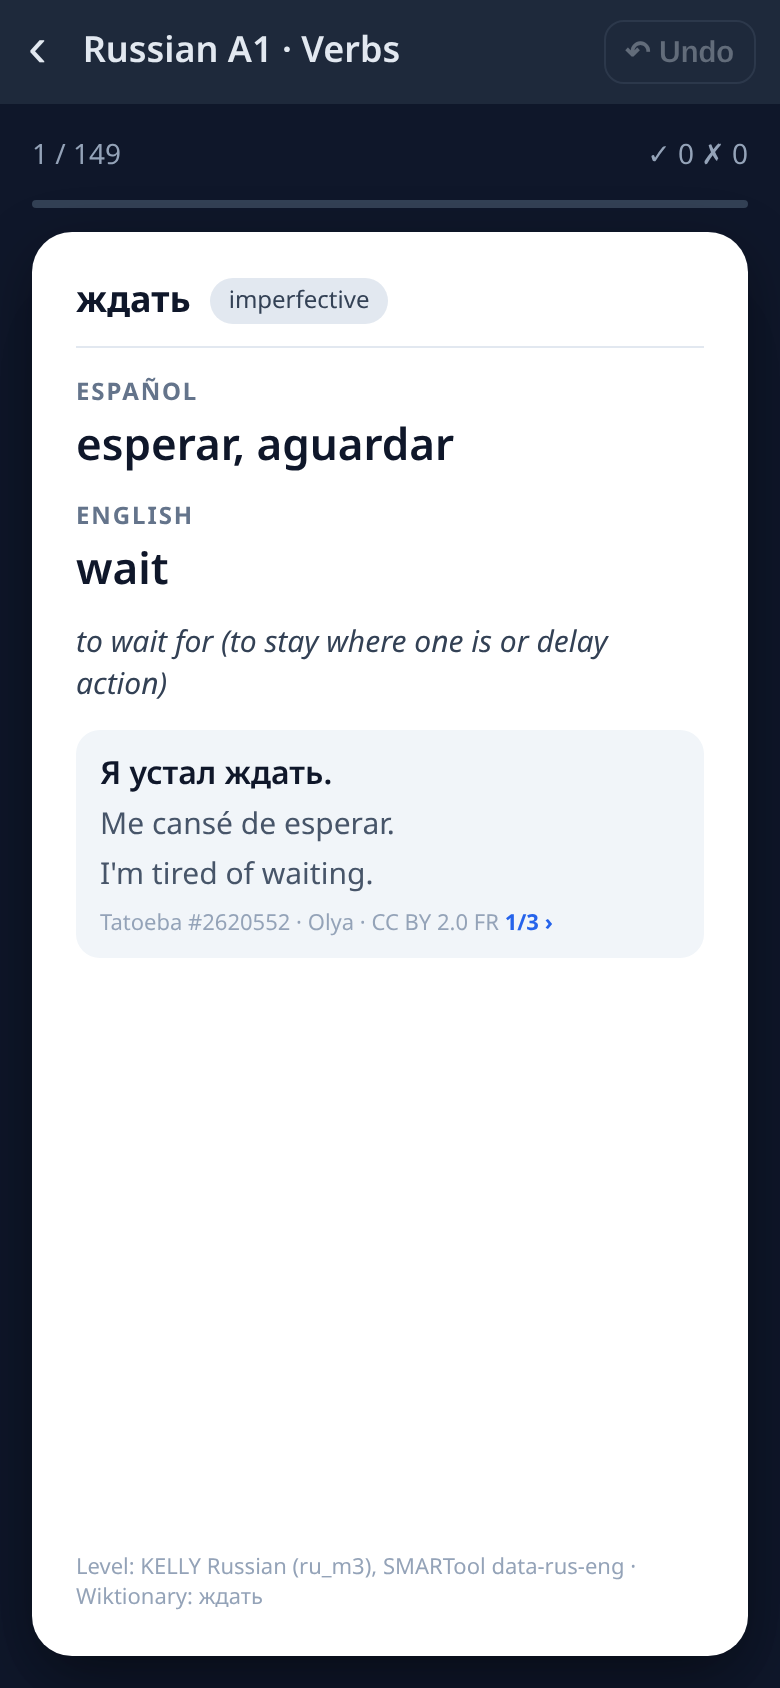
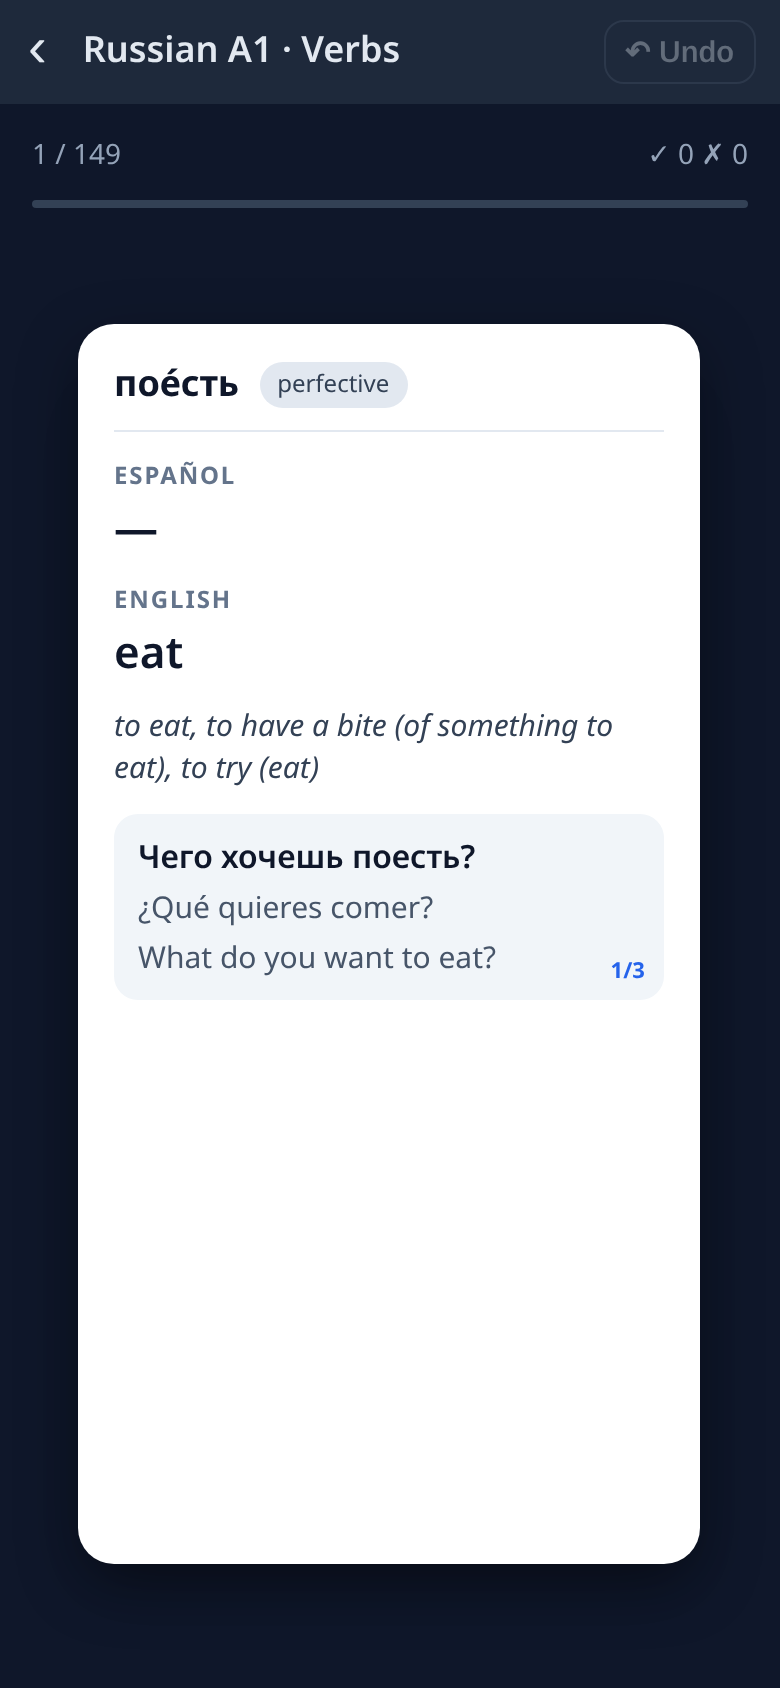
v0.3.0: home-screen deck shortcuts (★ pin on stack picker, long-press to edit/remove, localStorage), cards ~13% smaller, no source line under examples or level/source footer on cards, per-sentence Tatoeba ID+author credits on About, fix 'null' for examples missing a translation

diff --git a/js/app.js b/js/app.js
@@ -1,6 +1,7 @@
 import { recordReview, undoReview, wordStats, allWords, allEvents, countEvents, clearAll } from './db.js';
 import { order } from './deck.js';
 import { APP_VERSION } from './version.js';
+import { getShortcuts, isPinned, togglePin, removeShortcut, deckKey } from './shortcuts.js';
 
 const LANGS = { fr: { name: 'French', native: 'Français', flag: '🇫🇷' }, ru: { name: 'Russian', native: 'Русский', flag: '🇷🇺' } };
 const LEVELS = ['A1', 'A2', 'B1', 'B2', 'C1', 'C2'];
@@ -35,18 +36,46 @@ const routes = [
   [/^#\/stats$/, statsScreen],
   [/^#\/about$/, about],
 ];
-let cleanup = null;
+let cleanup = null, prevHash = null, curHash = null;
 async function render() {
   if (cleanup) { cleanup(); cleanup = null; }
   const hash = location.hash || '#/';
+  if (hash !== curHash) { prevHash = curHash; curHash = hash; }
   for (const [re, fn] of routes) { const m = hash.match(re); if (m) { $view.replaceChildren(); await fn(...m.slice(1)); return; } }
   location.hash = '#/';
 }
 window.addEventListener('hashchange', render);
 
+// ---------------- home shortcuts (pinned decks); long-press a tile to edit, × removes
+function shortcutTile(sc, editing, rerender) {
+  const d = deckInfo(sc);
+  if (!d) return null;
+  let timer = null, long = false;
+  const tile = h('a', { class: 'tile', href: editing ? null : d.route, 'data-test': `shortcut-${deckKey(sc)}`, title: d.label },
+    h('span', { class: 'ico' }, d.flag), h('span', { class: 'lbl' }, d.line1, h('b', {}, d.line2)),
+    editing ? h('button', { class: 'rm', 'aria-label': `Remove ${d.label}`, 'data-test': `rm-${deckKey(sc)}`,
+      onclick: e => { e.preventDefault(); e.stopPropagation(); removeShortcut(sc); rerender(getShortcuts().length > 0); } }, '×') : null);
+  tile.addEventListener('pointerdown', () => { long = false; clearTimeout(timer); timer = setTimeout(() => { long = true; rerender(true); }, 550); });
+  for (const ev of ['pointerup', 'pointercancel', 'pointerleave']) tile.addEventListener(ev, () => clearTimeout(timer));
+  tile.addEventListener('click', e => { if (long || editing) e.preventDefault(); });
+  tile.addEventListener('contextmenu', e => e.preventDefault());
+  return tile;
+}
+function shortcutsEl() {
+  const box = h('div', { class: 'shortcuts', 'data-test': 'shortcuts' });
+  const draw = editing => {
+    const scs = getShortcuts();
+    box.classList.toggle('editing', editing);
+    box.replaceChildren(...scs.map(sc => shortcutTile(sc, editing, draw)).filter(Boolean),
+      editing ? h('button', { class: 'tile add done', 'data-test': 'shortcuts-done', onclick: () => draw(false) }, '✓')
+        : h('a', { class: 'tile add', href: '#/fc', 'aria-label': 'Add shortcut', 'data-test': 'shortcut-add' }, '+'));
+  };
+  draw(false);
+  return box;
+}
 function menu() {
   setTitle('Flashcards', null);
-  $view.append(h('div', { class: 'list' },
+  $view.append(shortcutsEl(), h('div', { class: 'list' },
     h('a', { class: 'item', href: '#/fc', 'data-test': 'menu-flashcards' }, h('span', { class: 'ico' }, '🃏'),
       h('span', { class: 'grow' }, 'Flashcards', h('span', { class: 'sub' }, 'French & Russian vocabulary, Spanish + English'))),
     h('button', { class: 'item', disabled: true }, h('span', { class: 'ico' }, '🎧'), h('span', { class: 'grow' }, 'Listening', h('span', { class: 'sub' }, 'Future feature')), h('span', { class: 'badge' }, 'coming soon')),
@@ -79,10 +108,21 @@ async function chooseStack(lang, lv) {
     if (!p) continue;
     const ws = await wordStats(`${lang}-${lv}-${k}`);
     const known = ws.filter(w => w.lastResult === 'knew').length;
+    const sc = { kind: 'stack', lang, level: lv, stack: k };
+    const pin = h('button', { class: 'pin', 'aria-label': 'Pin to home', 'aria-pressed': String(isPinned(sc)), 'data-test': `pin-${k}`,
+      onclick: e => { e.preventDefault(); e.stopPropagation(); pin.setAttribute('aria-pressed', String(togglePin(sc))); } }, '★');
     list.append(h('a', { class: 'item', href: `#/fc/${lang}/${lv}/${k}`, 'data-test': `stack-${k}` }, h('span', { class: 'ico' }, s.ico),
-      h('span', { class: 'grow' }, s.name, h('span', { class: 'sub' }, `${p.count} cards · ${ws.length} seen · ${known} known`))));
+      h('span', { class: 'grow' }, s.name, h('span', { class: 'sub' }, `${p.count} cards · ${ws.length} seen · ${known} known`)), pin));
   }
   $view.append(list);
+}
+
+// deck descriptors: {kind:'stack', lang, level, stack}; future: {kind:'topic', lang, topic}
+function deckInfo(sc) {
+  if (sc.kind === 'stack' && LANGS[sc.lang] && STACKS[sc.stack])
+    return { route: `#/fc/${sc.lang}/${sc.level}/${sc.stack}`, flag: LANGS[sc.lang].flag, line1: `${LANGS[sc.lang].name} ${sc.level}`, line2: STACKS[sc.stack].name,
+      label: `${LANGS[sc.lang].name} ${sc.level} ${STACKS[sc.stack].name.toLowerCase()}` };
+  return null;   // unknown kinds (e.g. from a newer version) are kept in storage but not shown
 }
 
 // ---------------- card rendering
@@ -95,17 +135,17 @@ function exampleEl(it, lang) {
   const xs = it.x || [];
   if (!xs.length) {   // Wiktionary example, only when Tatoeba has none
     return it.ex ? h('div', { class: 'ex', 'data-test': 'example', 'data-src': 'wiktionary' }, h('span', { class: 's', lang }, it.ex[0]),
-      it.ex[1] ? h('span', { class: 't', lang: 'en' }, it.ex[1]) : null, h('span', { class: 'src' }, 'Wiktionary')) : null;
+      it.ex[1] ? h('span', { class: 't', lang: 'en' }, it.ex[1]) : null) : null;
   }
   const box = h('div', { class: 'ex', 'data-test': 'example', 'data-src': 'tatoeba' });
   let k = 0;
   const draw = () => {
     const x = xs[k];
     box.dataset.idx = k;
-    box.replaceChildren(h('span', { class: 's', lang }, x.t),
+    box.replaceChildren(...[h('span', { class: 's', lang }, x.t),
       x.es ? h('span', { class: 't', lang: 'es' }, x.es[0]) : null,
       x.en ? h('span', { class: 't', lang: 'en' }, x.en[0]) : null,
-      h('span', { class: 'src' }, `Tatoeba #${x.id}${x.by ? ' · ' + x.by : ''} · CC BY 2.0 FR`, xs.length > 1 ? h('b', { class: 'cyc' }, ` ${k + 1}/${xs.length} ›`) : null));
+      xs.length > 1 ? h('span', { class: 'cyc', 'data-test': 'ex-count' }, `${k + 1}/${xs.length}`) : null].filter(Boolean));   // a missing translation is skipped, never printed as "null"
   };
   box.cycle = () => { if (xs.length < 2) return false; k = (k + 1) % xs.length; draw(); return true; };
   draw();
@@ -120,8 +160,7 @@ function back(it, lang) {
     h('h3', {}, 'Español'), h('p', { class: 'tr', lang: 'es', 'data-test': 'tr-es' }, it.es.length ? it.es.join(', ') : '—'),
     h('h3', {}, 'English'), h('p', { class: 'tr', lang: 'en', 'data-test': 'tr-en' }, it.en.length ? it.en.join(', ') : '—'),
     it.def ? h('p', { class: 'def', lang: 'en' }, it.def) : null,
-    exampleEl(it, lang),
-    h('div', { class: 'small' }, `Level: ${it.lv.join(', ')} · Wiktionary: ${it.k.split('|')[0]}`));
+    exampleEl(it, lang));
 }
 function cardEl(it, lang) {
   return h('div', { class: 'card', 'data-id': it.id }, h('div', { class: 'stamp yes' }, 'KNEW'), h('div', { class: 'stamp no' }, 'NOPE'),
@@ -131,7 +170,7 @@ function cardEl(it, lang) {
 // ---------------- session (swipe right = knew, left = didn't, tap = flip; ↶ undo in the top bar)
 async function session(lang, lv, stack) {
   const meta = (await getIndex()).packs.find(p => p.lang === lang && p.level === lv && p.stack === stack);
-  setTitle(`${LANGS[lang].name} ${lv} · ${STACKS[stack].name}`, `#/fc/${lang}/${lv}`);
+  setTitle(`${LANGS[lang].name} ${lv} · ${STACKS[stack].name}`, prevHash === '#/' ? '#/' : `#/fc/${lang}/${lv}`);
   const pack = await getPack(meta.file);
   const stats = Object.fromEntries((await wordStats(`${lang}-${lv}-${stack}`)).map(s => [s.id, s]));
   const deck = order(pack.items, stats);
@@ -271,13 +310,30 @@ async function about() {
   const credits = await (await fetch('data/credits.json')).json();
   const idx = await getIndex();
   $view.append(h('div', { class: 'panel credits' }, h('h2', {}, 'About'),
-      h('p', {}, 'Every word, definition, translation and example sentence in this app comes from the open datasets below. Nothing was written by hand. Cards were picked automatically from the CEFR A1 lists; translations are limited to direct or multi-source links. Example sentences are chosen automatically from Tatoeba (short, simple sentences with Spanish/English translations, shown with their Tatoeba ID); Wiktionary examples are used only where Tatoeba has none.'),
+      h('p', {}, 'Every word, definition, translation and example sentence in this app comes from the open datasets below. Nothing was written by hand. Cards were picked automatically from the CEFR A1 lists; translations are limited to direct or multi-source links. Example sentences are chosen automatically from Tatoeba (short, simple sentences with Spanish/English translations); Wiktionary examples are used only where Tatoeba has none. The Tatoeba ID and author of every example sentence are listed below.'),
       h('p', {}, `Packs: ${idx.packs.map(p => `${p.file} (${p.count})`).join(', ')}.`),
       h('p', {}, 'For personal, non-commercial use. Share-alike licences apply to the data.')),
     ...credits.map(c => h('div', { class: 'panel credits' }, h('h2', {}, c.name),
       h('p', {}, c.required_notice), c.citation ? h('p', {}, c.citation) : null,
       h('p', {}, 'Licence: ', c.license_url ? h('a', { href: c.license_url, target: '_blank', rel: 'noopener' }, c.license) : c.license,
-        c.url ? [' · ', h('a', { href: c.url, target: '_blank', rel: 'noopener' }, 'source')] : null))));
+        c.url ? [' · ', h('a', { href: c.url, target: '_blank', rel: 'noopener' }, 'source')] : null),
+      c.source_id === 'tatoeba' ? sentenceCredits(idx) : null)));
+}
+function sentenceCredits(idx) {
+  // CC BY 2.0 FR attribution for every Tatoeba sentence used on the cards (built when opened)
+  return idx.packs.map(p => {
+    const d = h('details', { 'data-test': `credits-${p.file}` }, h('summary', {}, `Sentences in ${LANGS[p.lang].name} ${p.level} ${STACKS[p.stack].name.toLowerCase()}`));
+    d.addEventListener('toggle', async () => {
+      if (!d.open || d.dataset.done) return; d.dataset.done = '1';
+      const rows = [];
+      for (const it of (await getPack(p.file)).items) for (const x of it.x || []) {
+        const link = id => h('a', { href: `https://tatoeba.org/sentences/show/${id}`, target: '_blank', rel: 'noopener' }, `#${id}`);
+        rows.push(h('li', {}, link(x.id), x.by ? ` ${x.by}` : '', x.es ? [' · es ', link(x.es[1])] : null, x.en ? [' · en ', link(x.en[1])] : null));
+      }
+      d.append(h('ul', { class: 'sent-credits' }, rows));
+    });
+    return d;
+  });
 }
 
 // ---------------- toast + service worker auto-update

diff --git a/css/app.css b/css/app.css
@@ -21,16 +21,16 @@ main{flex:1;display:flex;flex-direction:column;padding:16px 16px calc(16px + var
 .session{flex:1;display:flex;flex-direction:column;gap:12px;min-height:0}
 .progress{display:flex;justify-content:space-between;color:var(--muted);font-size:14px}
 .bar{height:4px;background:#334155;border-radius:4px;overflow:hidden}.bar>i{display:block;height:100%;background:var(--accent);width:0;transition:width .3s}
-.stage{position:relative;flex:1;min-height:360px;perspective:1200px}
-.card{position:absolute;inset:0;touch-action:none;user-select:none;-webkit-user-select:none;cursor:grab;will-change:transform}
+.stage{position:relative;flex:1;min-height:320px;perspective:1200px}
+.card{position:absolute;inset:0;margin:auto;width:87%;height:87%;touch-action:none;user-select:none;-webkit-user-select:none;cursor:grab;will-change:transform}
 .card.dragging{cursor:grabbing}
 .card.next{transform:scale(.94) translateY(14px);opacity:.6;pointer-events:none;transition:transform .25s,opacity .25s}
 .card .inner{position:absolute;inset:0;transition:transform .45s cubic-bezier(.2,.8,.2,1);transform-style:preserve-3d}
 .card.flipped .inner{transform:rotateY(180deg)}
-.face{position:absolute;inset:0;backface-visibility:hidden;-webkit-backface-visibility:hidden;background:var(--card);color:var(--cardtext);border-radius:20px;box-shadow:0 10px 30px rgba(0,0,0,.35);padding:22px;display:flex;flex-direction:column;overflow:auto;touch-action:pan-y;overscroll-behavior:contain}
+.face{position:absolute;inset:0;backface-visibility:hidden;-webkit-backface-visibility:hidden;background:var(--card);color:var(--cardtext);border-radius:18px;box-shadow:0 10px 30px rgba(0,0,0,.35);padding:18px;display:flex;flex-direction:column;overflow:auto;touch-action:pan-y;overscroll-behavior:contain}
 .front{align-items:center;justify-content:center;text-align:center;touch-action:none}
 .back-face{transform:rotateY(180deg)}
-.word{font-size:40px;font-weight:700;letter-spacing:.2px;word-break:break-word}
+.word{font-size:36px;font-weight:700;letter-spacing:.2px;word-break:break-word}
 .article{font-weight:400;color:#64748b}
 .tag{font-size:12px;padding:3px 9px;border-radius:99px;background:#e2e8f0;color:#334155}
 .tag.f{background:#fce7f3;color:#9d174d}.tag.m{background:#dbeafe;color:#1e40af}.tag.n{background:#dcfce7;color:#166534}
@@ -42,8 +42,7 @@ main{flex:1;display:flex;flex-direction:column;padding:16px 16px calc(16px + var
 .ex{font-size:15px;background:#f1f5f9;border-radius:12px;padding:10px 12px;margin:0}
 .ex .s{display:block;font-weight:600;font-size:16px}
 .ex .t{display:block;color:#475569;margin-top:4px}
-.ex .src{display:block;color:#94a3b8;font-size:11px;margin-top:6px}.ex .cyc{color:var(--accent);font-weight:700}
-.small{font-size:11px;color:#94a3b8;margin-top:auto;padding-top:10px}
+.ex{position:relative}.ex .cyc{position:absolute;right:10px;bottom:6px;color:var(--accent);font-size:11px;font-weight:700}
 .stamp{position:absolute;top:22px;padding:6px 12px;border:3px solid;border-radius:10px;font-weight:800;font-size:20px;opacity:0;z-index:3;pointer-events:none;background:rgba(255,255,255,.85)}
 .stamp.yes{left:18px;color:var(--good);transform:rotate(-12deg)}
 .stamp.no{right:18px;color:var(--bad);transform:rotate(12deg)}
@@ -63,5 +62,17 @@ table{width:100%;border-collapse:collapse;font-size:14px}th,td{padding:8px 6px;b
 .toast{position:fixed;left:50%;bottom:calc(20px + var(--safe-b));transform:translateX(-50%);background:#111827;color:#fff;border:1px solid #374151;padding:10px 14px;border-radius:12px;display:flex;gap:12px;align-items:center;z-index:50;box-shadow:0 8px 24px rgba(0,0,0,.4);font-size:14px}
 .toast[hidden]{display:none}
 .toast button{background:var(--accent);color:#fff;border:0;border-radius:8px;padding:6px 10px;font-weight:600}
-@media (prefers-reduced-motion:reduce){.card .inner,.card.next{transition:none}}
+@media (prefers-reduced-motion:reduce){.card .inner,.card.next{transition:none}.shortcuts.editing .tile{animation:none}}
 [hidden]{display:none!important}
+/* home shortcuts */
+.shortcuts{display:grid;grid-template-columns:repeat(auto-fill,minmax(104px,1fr));gap:10px;margin-bottom:16px}
+.tile{position:relative;display:flex;flex-direction:column;align-items:center;justify-content:center;gap:4px;min-height:92px;padding:10px 6px;border-radius:14px;background:var(--panel);border:1px solid #334155;color:var(--text);text-decoration:none;text-align:center;font-size:14px;cursor:pointer;user-select:none;-webkit-user-select:none;-webkit-touch-callout:none;transition:transform .12s}
+.tile:active{transform:scale(.96)}
+.tile .ico{font-size:26px}.tile .lbl{line-height:1.2}.tile .lbl b{display:block;font-weight:650}
+.tile.add{font-size:30px;color:var(--muted);background:transparent;border-style:dashed}
+.tile.done{color:var(--good);border-color:var(--good);font-size:24px}
+.shortcuts.editing .tile:not(.add){animation:wig .3s ease-in-out infinite alternate}
+@keyframes wig{from{transform:rotate(-1.2deg)}to{transform:rotate(1.2deg)}}
+.tile .rm{position:absolute;top:-8px;right:-8px;width:26px;height:26px;border-radius:50%;border:0;background:var(--bad);color:#fff;font-size:17px;line-height:1;font-weight:700;cursor:pointer}
+.pin{background:none;border:0;font-size:22px;color:#475569;padding:4px 6px;cursor:pointer}.pin[aria-pressed=true]{color:#facc15}
+.credits details{margin:8px 0;font-size:13px;color:#cbd5e1}.credits summary{cursor:pointer}.sent-credits{margin:6px 0 0;padding-left:18px;font-size:12px;line-height:1.6;color:var(--muted)}

diff --git a/js/shortcuts.js b/js/shortcuts.js
@@ -1,0 +1,14 @@
+// Home-screen shortcuts (pinned decks), kept in localStorage so they survive app updates.
+// A shortcut is a deck descriptor: {kind:'stack', lang, level, stack}. Other kinds (e.g. {kind:'topic', lang, topic})
+// can be pinned the same way; deckKey() gives every descriptor a stable id.
+const KEY = 'langapp.shortcuts.v1';
+export const deckKey = sc => [sc.kind, sc.lang, sc.level, sc.stack, sc.topic].filter(Boolean).join('-');
+export function getShortcuts() {
+  try { const v = JSON.parse(localStorage.getItem(KEY) || '[]'); return Array.isArray(v) ? v.filter(x => x && x.kind) : []; }
+  catch { return []; }
+}
+function save(list) { localStorage.setItem(KEY, JSON.stringify(list)); }
+export const isPinned = sc => getShortcuts().some(x => deckKey(x) === deckKey(sc));
+export function addShortcut(sc) { const l = getShortcuts(); if (!l.some(x => deckKey(x) === deckKey(sc))) { l.push({ ...sc, added: new Date().toISOString() }); save(l); } }
+export function removeShortcut(sc) { save(getShortcuts().filter(x => deckKey(x) !== deckKey(sc))); }
+export function togglePin(sc) { if (isPinned(sc)) { removeShortcut(sc); return false; } addShortcut(sc); return true; }

diff --git a/sw.js b/sw.js
@@ -1,6 +1,6 @@
 /* Service worker, generated by tools/stamp.py; do not edit sw.js by hand. */
-// build ce8527bf0a43
-const VERSION = '0.2.0';
+// build 7b314487c42d
+const VERSION = '0.3.0';
 const CACHE = `langapp-${VERSION}`;
 const ASSETS = [
  "./",
@@ -20,6 +20,7 @@ const ASSETS = [
  "js/app.js",
  "js/db.js",
  "js/deck.js",
+ "js/shortcuts.js",
  "js/version.js",
  "manifest.webmanifest"
 ];

diff --git a/js/version.js b/js/version.js
@@ -1,1 +1,1 @@
-export const APP_VERSION = '0.2.0';
+export const APP_VERSION = '0.3.0';

diff --git a/tools/build_packs.py b/tools/build_packs.py
@@ -158,7 +158,7 @@ if __name__ == '__main__':
                                 WHERE s.source_id IN ('enwikt','frwikt','eswikt','ruwikt','nlwikt','FLELex TT-Beacco','SMARTool data-rus-eng','KELLY Russian (ru_m3)','omw')""")]
     cr.append({'source_id': 'tatoeba', 'name': 'Tatoeba', 'version': 'weekly export downloaded ' + __import__('time').strftime('%Y-%m-%d', __import__('time').localtime(os.path.getmtime('/workspace/langdb/tatoeba/fra_sentences_detailed.tsv.bz2'))),
                'url': 'https://tatoeba.org/', 'license': 'CC BY 2.0 FR', 'license_url': 'https://creativecommons.org/licenses/by/2.0/fr/',
-               'required_notice': 'Example sentences and their translations from Tatoeba (https://tatoeba.org), licensed CC BY 2.0 FR. Each sentence shows its Tatoeba ID; see https://tatoeba.org/sentences/show/<ID> for author and history.',
+               'required_notice': 'Example sentences and their translations from Tatoeba (https://tatoeba.org), licensed CC BY 2.0 FR. Sentence IDs and authors are listed on the About screen and stored with each card in data/*.json (fields id, by); see https://tatoeba.org/sentences/show/<ID> for history.',
                'citation': 'Tatoeba contributors. https://tatoeba.org'})
     json.dump(cr, open(os.path.join(OUT, 'credits.json'), 'w', encoding='utf-8'), ensure_ascii=False, indent=1)
     json.dump(index, open(os.path.join(OUT, 'index.json'), 'w'), indent=1)

diff --git a/README.md b/README.md
@@ -6,10 +6,11 @@ This is an installable, offline-first flashcard app for learning French and Russ
 
 ## Use
 - **Menu → Flashcards → language → level → stack (Nouns / Verbs).**
+- **Home shortcuts:** tap ★ next to a stack to pin it to the home screen (tap again to unpin); one tap on the tile starts that deck. Long-press a tile to edit, × removes it, ✓ finishes. The + tile opens the deck picker. Shortcuts are deck descriptors (`{kind:'stack', lang, level, stack}`) saved in `localStorage` (`langapp.shortcuts.v1`), so they survive updates; future topic decks only need a new `kind` in `deckInfo()` (`js/app.js`).
 - **Card front:** only the word, with its article for French nouns (un/une). Gender, aspect, translations, definition and an example sentence are on the back.
 - **Flip a card:** tap it. **Answer:** swipe right if you knew it, left if you didn't. There are no on-screen answer buttons; on desktop the keys still work (Space/Enter flip, → knew, ← didn't).
 - **Undo:** the ↶ Undo button in the top bar (or Backspace / Ctrl+Z) brings back the previous card. The review event is kept but flagged `undone`, it is excluded from every statistic, and that word's totals are recomputed from its remaining events.
-- **Examples:** the back shows the best Tatoeba sentence with its Spanish and English translations; tap the example to cycle through up to 3.
+- **Examples:** the back shows the best Tatoeba sentence with its Spanish and English translations; tap the example to cycle through up to 3. Source lines are not shown on the card; the ID and author of every Tatoeba sentence are listed on the About screen.
 - **Card order:** a weighted shuffle. Unseen cards and cards you missed last time come first.
 - **Stats:** stored on the device in IndexedDB. Every review is saved as an event, and each word keeps running totals. Stats & settings can export them as JSON, events CSV or words CSV.
 
@@ -18,9 +19,9 @@ This is an installable, offline-first flashcard app for learning French and Russ
 
 ## Release / update flow
 1. Change the code or regenerate the packs: `python3 tools/build_packs.py /path/to/langdb.sqlite`.
-2. Bump `VERSION` (3-part semver `MAJOR.MINOR.PATCH`, e.g. `0.2.0` → `0.2.1`).
+2. Bump `VERSION` (3-part semver `MAJOR.MINOR.PATCH`, e.g. `0.3.0` → `0.3.1`).
 3. Run `python3 tools/stamp.py`. It writes `js/version.js` and `sw.js` (cache `langapp-<version>` + the precache list). The content hash is kept only as a comment in `sw.js` and in `tools/stamp.lock.json`; stamping refuses to run if shipped files changed but `VERSION` did not.
-4. Commit and push. Installed apps check for a new service worker on launch, every 30 minutes and whenever the app comes back to the foreground. The new version activates right away. On menu screens the app reloads and shows an "Updated to vX" toast; in the middle of a session it offers a Reload button instead.
+4. Commit and push. Installed apps check for a new service worker on launch, every 30 minutes and whenever the app comes back to the foreground. Any `VERSION` change produces a byte-different `sw.js`, so the browser installs it whatever the installed version is (also downgrades). The new version activates right away. On menu screens the app reloads and shows an "Updated to vX" toast; in the middle of a session it offers a Reload button instead.
 
 ## Data credits and licences
 | Source | Used for | Licence |
@@ -29,7 +30,7 @@ This is an installable, offline-first flashcard app for learning French and Russ
 | [FLELex](https://cental.uclouvain.be/cefrlex/flelex/) (François et al. 2014; Pintard & François 2020) | French A1 word list | CC BY-NC-SA 4.0 |
 | [SMARTool data-rus-eng](https://github.com/smartool/data-rus-eng) (UiT) | Russian A1 word list | CC BY 4.0 |
 | [KELLY Russian list](https://ssharoff.github.io/kelly/) (Kilgarriff et al. 2014) | Russian A1 word list | CC BY-NC-SA 2.0 |
-| [Tatoeba](https://tatoeba.org) (weekly exports) | example sentences and their Spanish/English translations (each shown with its Tatoeba ID) | [CC BY 2.0 FR](https://creativecommons.org/licenses/by/2.0/fr/) |
+| [Tatoeba](https://tatoeba.org) (weekly exports) | example sentences and their Spanish/English translations (sentence IDs and authors listed on the About screen and in `data/*.json`) | [CC BY 2.0 FR](https://creativecommons.org/licenses/by/2.0/fr/) |
 | [Open Multilingual Wordnet 1.4](https://omwn.org/) | translation reliability scoring only | WordNet licence / CeCILL-C / CC BY 3.0 / CC BY-SA 4.0 |
 
 Because of the NC sources, the data in `data/` is for **non-commercial use** under CC BY-NC-SA. See `LICENSE`.
